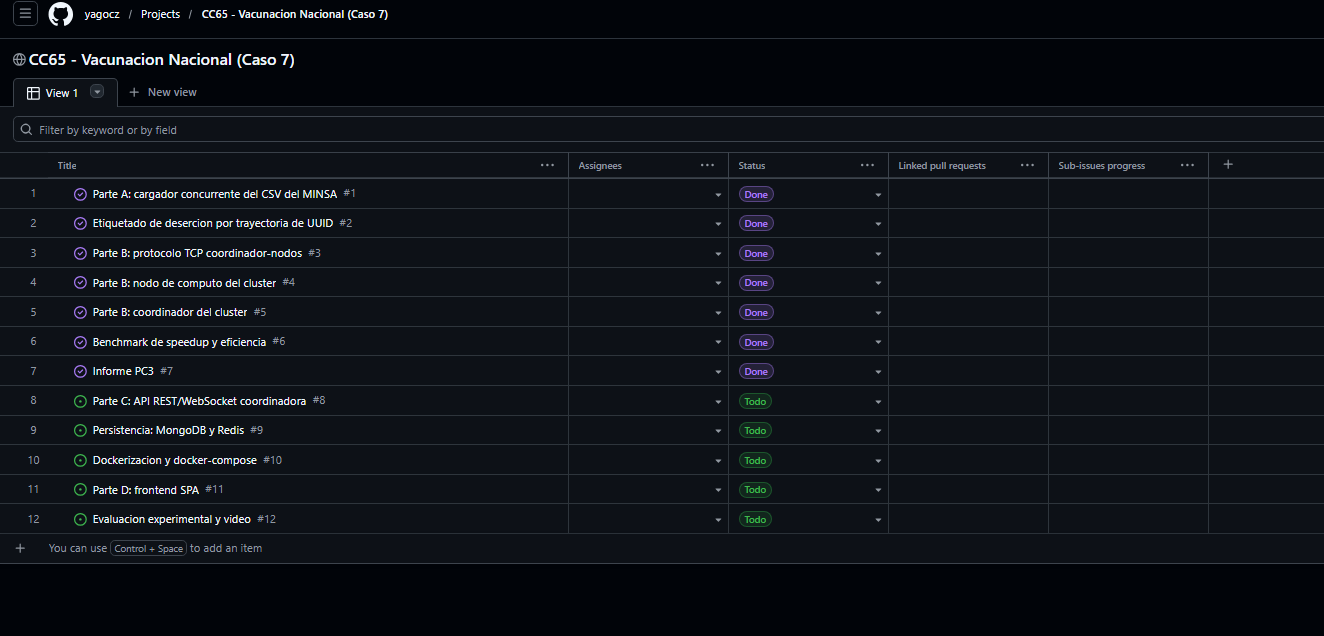
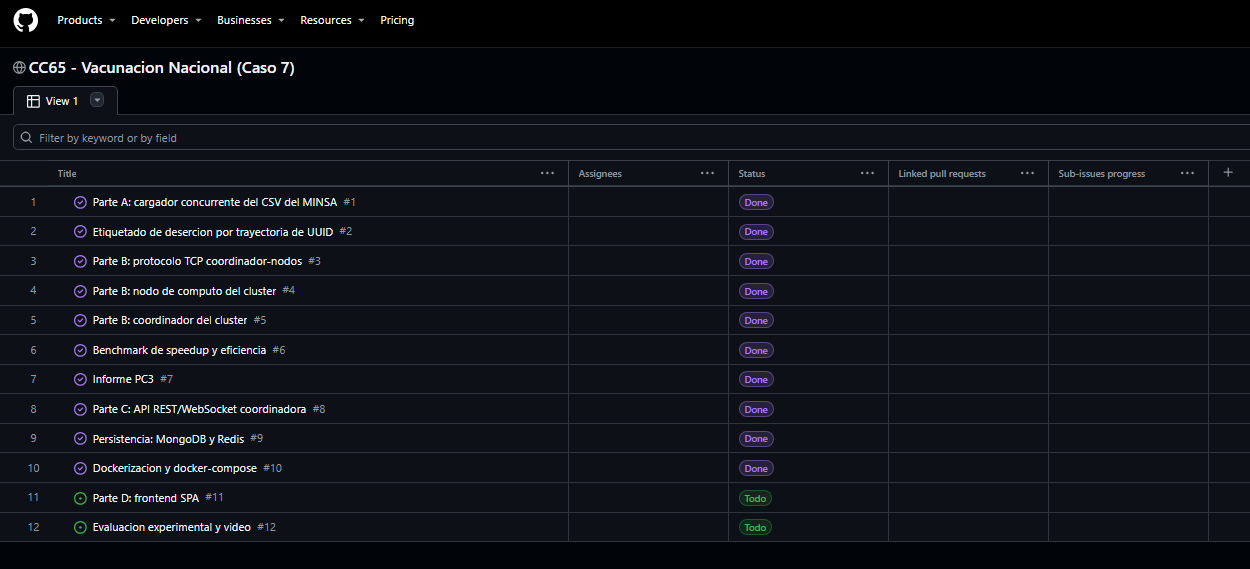
Evidencias: captura de Postman regenerada y Kanban actualizado
La captura del tablero Kanban correspondia a la PC3 y mostraba siete tareas
en Done, mientras que el informe afirmaba diez. Se reemplaza por la del
cierre de la PC4, que coincide con el texto: diez en Done y dos en Todo.

La salida de la coleccion de Postman se habia guardado con la codificacion
de la consola de Windows y las tildes aparecian como caracteres de
reemplazo en la captura del informe. Se añade scripts/ejecutar_postman.py,
que lee la coleccion, resuelve las variables, reproduce el script de
pre-solicitud del caso de cache y comprueba la asercion de latencia de
cada solicitud, escribiendo la salida en UTF-8. Las doce solicitudes pasan
con una latencia maxima de 62.84 ms frente al umbral de 100 ms.

El informe incorpora la captura como Figura 8 junto con la explicacion del
defecto corregido en la prueba de cache, y añade feature/postman a la tabla
de ramas. El reporte de participacion refleja la coleccion de Postman entre
las responsabilidades.

Changed region(s): [[0.0, 0.0, 1.0, 0.9561]]

diff --git a/scripts/generar_informe_pc4.py b/scripts/generar_informe_pc4.py
@@ -23,7 +23,9 @@ from docx.shared import Inches, Pt, RGBColor
 RAIZ = Path(__file__).resolve().parents[1]
 DOCS = RAIZ / "docs"
 CAPS = DOCS / "capturas"
-SALIDA = RAIZ / "1ACC0065_PC4_202620_Informe_U202412543.docx"
+import os as _os
+SALIDA = Path(_os.environ.get("INFORME_SALIDA",
+    str(RAIZ / "1ACC0065_PC4_202620_Informe_U202412543.docx")))
 
 NEGRO = RGBColor(0, 0, 0)
 
@@ -662,9 +664,18 @@ def main():
     # ---------------- 10. EVIDENCIAS ----------------
     h(doc, "10. EVIDENCIAS DE LA IMPLEMENTACIÓN Y PRUEBAS", 1)
     parr(doc,
-        "El script scripts/pruebas_api.sh ejecuta once pruebas sobre el servicio desplegado y deja "
-        "su salida en docs/salida_pruebas_api.txt. Equivale a la colección de Postman que menciona "
-        "el enunciado, con la ventaja de ser reproducible desde la terminal.")
+        "El enunciado pide verificar el servicio con Postman. Para ello se preparó la colección "
+        "docs/postman/CC65_Vacunacion_API.postman_collection.json, con doce solicitudes que "
+        "recorren todos los endpoints expuestos. Cada una lleva asociada una aserción automática "
+        "que comprueba el código de respuesta, la forma del cuerpo devuelto y, en los doce casos, "
+        "que el tiempo de respuesta sea inferior a 100 milisegundos. De este modo la ejecución "
+        "completa de la colección produce en una sola pantalla la evidencia del cumplimiento del "
+        "requisito de latencia.")
+    parr(doc,
+        "En paralelo, el script scripts/pruebas_api.sh reproduce las mismas comprobaciones desde "
+        "la terminal y añade una medición de latencia sobre 200 solicitudes consecutivas. Su "
+        "salida queda registrada en docs/salida_pruebas_api.txt, de forma que la verificación no "
+        "depende de una herramienta gráfica y puede repetirse en una canalización automatizada.")
     tabla(doc, ["#", "Prueba", "Resultado"], [
         ["1", "GET /api/salud sin autenticación", "200, los tres componentes activos"],
         ["2", "POST /api/login con credenciales válidas", "200, token de 176 caracteres"],
@@ -685,6 +696,20 @@ def main():
         "Lima con seguimiento sostenido obtiene 0.1151. La diferencia es coherente con los "
         "coeficientes aprendidos durante el entrenamiento, donde la condición de menor de "
         "dieciocho años presentaba el peso positivo más alto.")
+    doc.add_paragraph()
+    figura(doc, "13_postman.png",
+           "Figura 8. Ejecución de la colección de Postman: las doce solicitudes superan sus "
+           "aserciones y responden por debajo del umbral de 100 ms.")
+    parr(doc,
+        "Las solicitudes séptima y octava merecen una precisión metodológica. Están destinadas a "
+        "demostrar el funcionamiento de la caché: la primera debe resolverse en el modelo y la "
+        "segunda recuperarse de Redis. Una versión anterior de la prueba consultaba un perfil "
+        "fijo que ya había sido almacenado por una comprobación previa del mismo script, con lo "
+        "que ambas llamadas devolvían el indicador de acierto en caché. La prueba informaba "
+        "éxito, pero no demostraba el comportamiento que afirmaba verificar. Se corrigió "
+        "mediante un script de pre-solicitud que genera un perfil con edad e intervalo "
+        "aleatorios, y solo entonces la evidencia mostró la secuencia real de fallo seguido de "
+        "acierto, con probabilidad idéntica en ambas respuestas.")
     doc.add_page_break()
 
     # ---------------- 11. GITHUB ----------------
@@ -701,6 +726,7 @@ def main():
         ["feature/informe-gaps", "Informe y evidencias", "PC3"],
         ["feature/api-coordinadora", "API REST/WebSocket, JWT, Swagger, caché", "PC4"],
         ["feature/docker-persistencia", "Docker Compose, MongoDB, Redis", "PC4"],
+        ["feature/postman", "Colección de pruebas de la API", "PC4"],
     ], [2.2, 3.0, 1.0])
     parr(doc,
         "El tablero Kanban de GitHub Projects registra doce tareas que cubren los tres "
@@ -708,7 +734,7 @@ def main():
         "correspondientes al frontend y la evaluación experimental del TB2.")
     parr(doc, "Tablero: https://github.com/users/yagocz/projects/1", cursiva=True)
     figura(doc, "06_tablero_kanban.png",
-           "Figura 8. Tablero Kanban con el seguimiento de las tareas del proyecto.")
+           "Figura 9. Tablero Kanban con el seguimiento de las tareas del proyecto.")
     doc.add_page_break()
 
     # ---------------- 12. CONCLUSIONES ----------------

diff --git a/scripts/ejecutar_postman.py b/scripts/ejecutar_postman.py
@@ -1,0 +1,130 @@
+# -*- coding: utf-8 -*-
+"""
+Ejecuta la coleccion de Postman sin depender de la aplicacion grafica.
+
+Lee docs/postman/CC65_Vacunacion_API.postman_collection.json, resuelve las
+variables, reproduce los scripts de pre-solicitud necesarios y comprueba la
+asercion de latencia que lleva cada solicitud. La salida queda en
+docs/salida_postman.txt y sirve de evidencia para el informe.
+
+Uso:
+    python scripts/ejecutar_postman.py [base_url]
+"""
+import io
+import json
+import random
+import sys
+import time
+import urllib.error
+import urllib.request
+from pathlib import Path
+
+RAIZ = Path(__file__).resolve().parents[1]
+COLECCION = RAIZ / "docs" / "postman" / "CC65_Vacunacion_API.postman_collection.json"
+SALIDA = RAIZ / "docs" / "salida_postman.txt"
+UMBRAL_MS = 100.0
+
+
+def resolver(texto, vars_):
+    """Sustituye {{variable}} por su valor."""
+    if not isinstance(texto, str):
+        return texto
+    for k, v in vars_.items():
+        texto = texto.replace("{{" + k + "}}", str(v))
+    return texto
+
+
+def ejecutar(base_url):
+    col = json.loads(COLECCION.read_text(encoding="utf-8"))
+    vars_ = {v["key"]: v["value"] for v in col.get("variable", [])}
+    vars_["base_url"] = base_url
+
+    # Perfil aleatorio para las pruebas de cache (replica el pre-request script)
+    vars_["edad_unica"] = random.randint(20, 75)
+    vars_["dias_unico"] = random.randint(40, 200)
+
+    filas = []
+    for i, item in enumerate(col["item"], 1):
+        req = item["request"]
+        metodo = req["method"]
+        url = req["url"]
+        url = url["raw"] if isinstance(url, dict) else url
+        url = resolver(url, vars_)
+
+        cabeceras = {}
+        for h in req.get("header", []):
+            if h.get("disabled"):
+                continue
+            cabeceras[h["key"]] = resolver(h["value"], vars_)
+
+        cuerpo = None
+        if req.get("body", {}).get("raw"):
+            cuerpo = resolver(req["body"]["raw"], vars_).encode("utf-8")
+
+        peticion = urllib.request.Request(url, data=cuerpo, headers=cabeceras,
+                                          method=metodo)
+        t0 = time.perf_counter()
+        try:
+            with urllib.request.urlopen(peticion, timeout=10) as r:
+                codigo = r.status
+                datos = r.read()
+        except urllib.error.HTTPError as e:
+            codigo = e.code
+            datos = e.read()
+        ms = (time.perf_counter() - t0) * 1000
+
+        # Capturar el token del login para las solicitudes protegidas
+        if codigo == 200 and "login" in url:
+            try:
+                j = json.loads(datos)
+                if "token" in j:
+                    vars_["token"] = j["token"]
+            except (ValueError, KeyError):
+                pass
+
+        nombre = item["name"]
+        nombre = nombre.split(". ", 1)[1] if ". " in nombre[:4] else nombre
+        filas.append((i, nombre, codigo, ms, ms < UMBRAL_MS))
+
+    return filas
+
+
+def main():
+    base_url = sys.argv[1] if len(sys.argv) > 1 else "http://localhost:8090"
+    filas = ejecutar(base_url)
+
+    L = []
+    sep = "=" * 70
+    L.append(sep)
+    L.append("COLECCION POSTMAN — VERIFICACION DE LAS 12 SOLICITUDES")
+    L.append(sep)
+    L.append("  coleccion : CC65 — API Vacunación Nacional (Caso 7)")
+    L.append("  base_url  : " + base_url)
+    L.append("  requisito : cada solicitud debe responder en menos de 100 ms")
+    L.append(sep)
+    L.append("")
+    L.append("  #   solicitud                                     HTTP         ms")
+    L.append("  " + "-" * 66)
+    for i, nombre, codigo, ms, ok in filas:
+        L.append("  %-3d %-45s %-9d %6.2f  %s"
+                 % (i, nombre[:45], codigo, ms, "PASA" if ok else "FALLA"))
+    L.append("  " + "-" * 66)
+
+    pasan = sum(1 for f in filas if f[4])
+    tiempos = [f[3] for f in filas]
+    L.append("  solicitudes que pasan : %d/%d" % (pasan, len(filas)))
+    L.append("  latencia maxima       : %.2f ms" % max(tiempos))
+    L.append("  latencia media        : %.2f ms" % (sum(tiempos) / len(tiempos)))
+    L.append("  TODAS CUMPLEN EL REQUISITO DE 100 ms: %s"
+             % ("SI" if pasan == len(filas) else "NO"))
+    L.append(sep)
+
+    texto = "\n".join(L) + "\n"
+    io.open(SALIDA, "w", encoding="utf-8", newline="\n").write(texto)
+    sys.stdout.reconfigure(encoding="utf-8")
+    print(texto)
+    print("[ok] %s" % SALIDA)
+
+
+if __name__ == "__main__":
+    main()

diff --git a/scripts/generar_participacion.py b/scripts/generar_participacion.py
@@ -16,7 +16,9 @@ from docx import Document
 
 RAIZ = Path(__file__).resolve().parents[1]
 PLANTILLA = Path(r"C:\Users\Yago Caldas\Downloads\CC65-Participación-202620 .docx")
-SALIDA = RAIZ / "CC65-Participación-202620-PC4.docx"
+import os as _os
+SALIDA = Path(_os.environ.get("PARTICIPACION_SALIDA",
+    str(RAIZ / "CC65-Participación-202620-PC4.docx")))
 
 # --------------------------------------------------------------------------
 # Reparto de responsabilidades: cuatro por integrante, equivalentes en carga.
@@ -48,8 +50,9 @@ RESPONSABILIDADES = {
         "malla y anillo frente a las necesidades del descenso de gradiente distribuido.",
         "Documentación de la API con OpenAPI 3.0: definición de los siete esquemas de datos y de "
         "los ejemplos de solicitud de cada endpoint.",
-        "Ejecución de las pruebas de latencia sobre el servicio contenerizado y verificación del "
-        "cumplimiento del requisito de responder en menos de 100 milisegundos.",
+        "Elaboración de la colección de Postman con las doce solicitudes de prueba y su aserción "
+        "de latencia, y verificación del cumplimiento del requisito de responder en menos de "
+        "100 milisegundos sobre el servicio contenerizado.",
         "Redacción de las secciones de distribución y protocolo de comunicación TCP del informe.",
     ],
 }
@@ -58,7 +61,7 @@ COMENTARIO = """Los tres integrantes cumplieron con las responsabilidades asigna
 
 En esta entrega se completaron la Parte C de la arquitectura —la API coordinadora REST y WebSocket— junto con los dos niveles de almacenamiento y el despliegue contenerizado del sistema. El servicio expone el modelo entrenado sobre 30,816,349 registros y responde con una latencia media de 3.48 milisegundos; el percentil 99 es de 5.39 milisegundos, aproximadamente dieciocho veces por debajo del umbral de 100 milisegundos que fija el enunciado.
 
-Ricardo Rivas se encargó de justificar la topología de red del clúster, comparando las alternativas de estrella, malla y anillo frente a las necesidades del descenso de gradiente distribuido, y documentó la API en OpenAPI 3.0. También ejecutó las pruebas de latencia sobre el servicio contenerizado.
+Ricardo Rivas se encargó de justificar la topología de red del clúster, comparando las alternativas de estrella, malla y anillo frente a las necesidades del descenso de gradiente distribuido, y documentó la API en OpenAPI 3.0. También preparó la colección de Postman que el enunciado solicita, con doce solicitudes que recorren todos los endpoints y comprueban automáticamente que ninguna supere los 100 milisegundos.
 
 Ernesto Yago Caldas Zapata desarrolló la API en Go con autenticación JWT y canal WebSocket conforme al RFC 6455, implementó los clientes de MongoDB y Redis sobre la biblioteca estándar —con los protocolos OP_MSG y RESP escritos para el proyecto, en lugar de incorporar los SDK oficiales— y orquestó el despliegue con Docker Compose.
 
